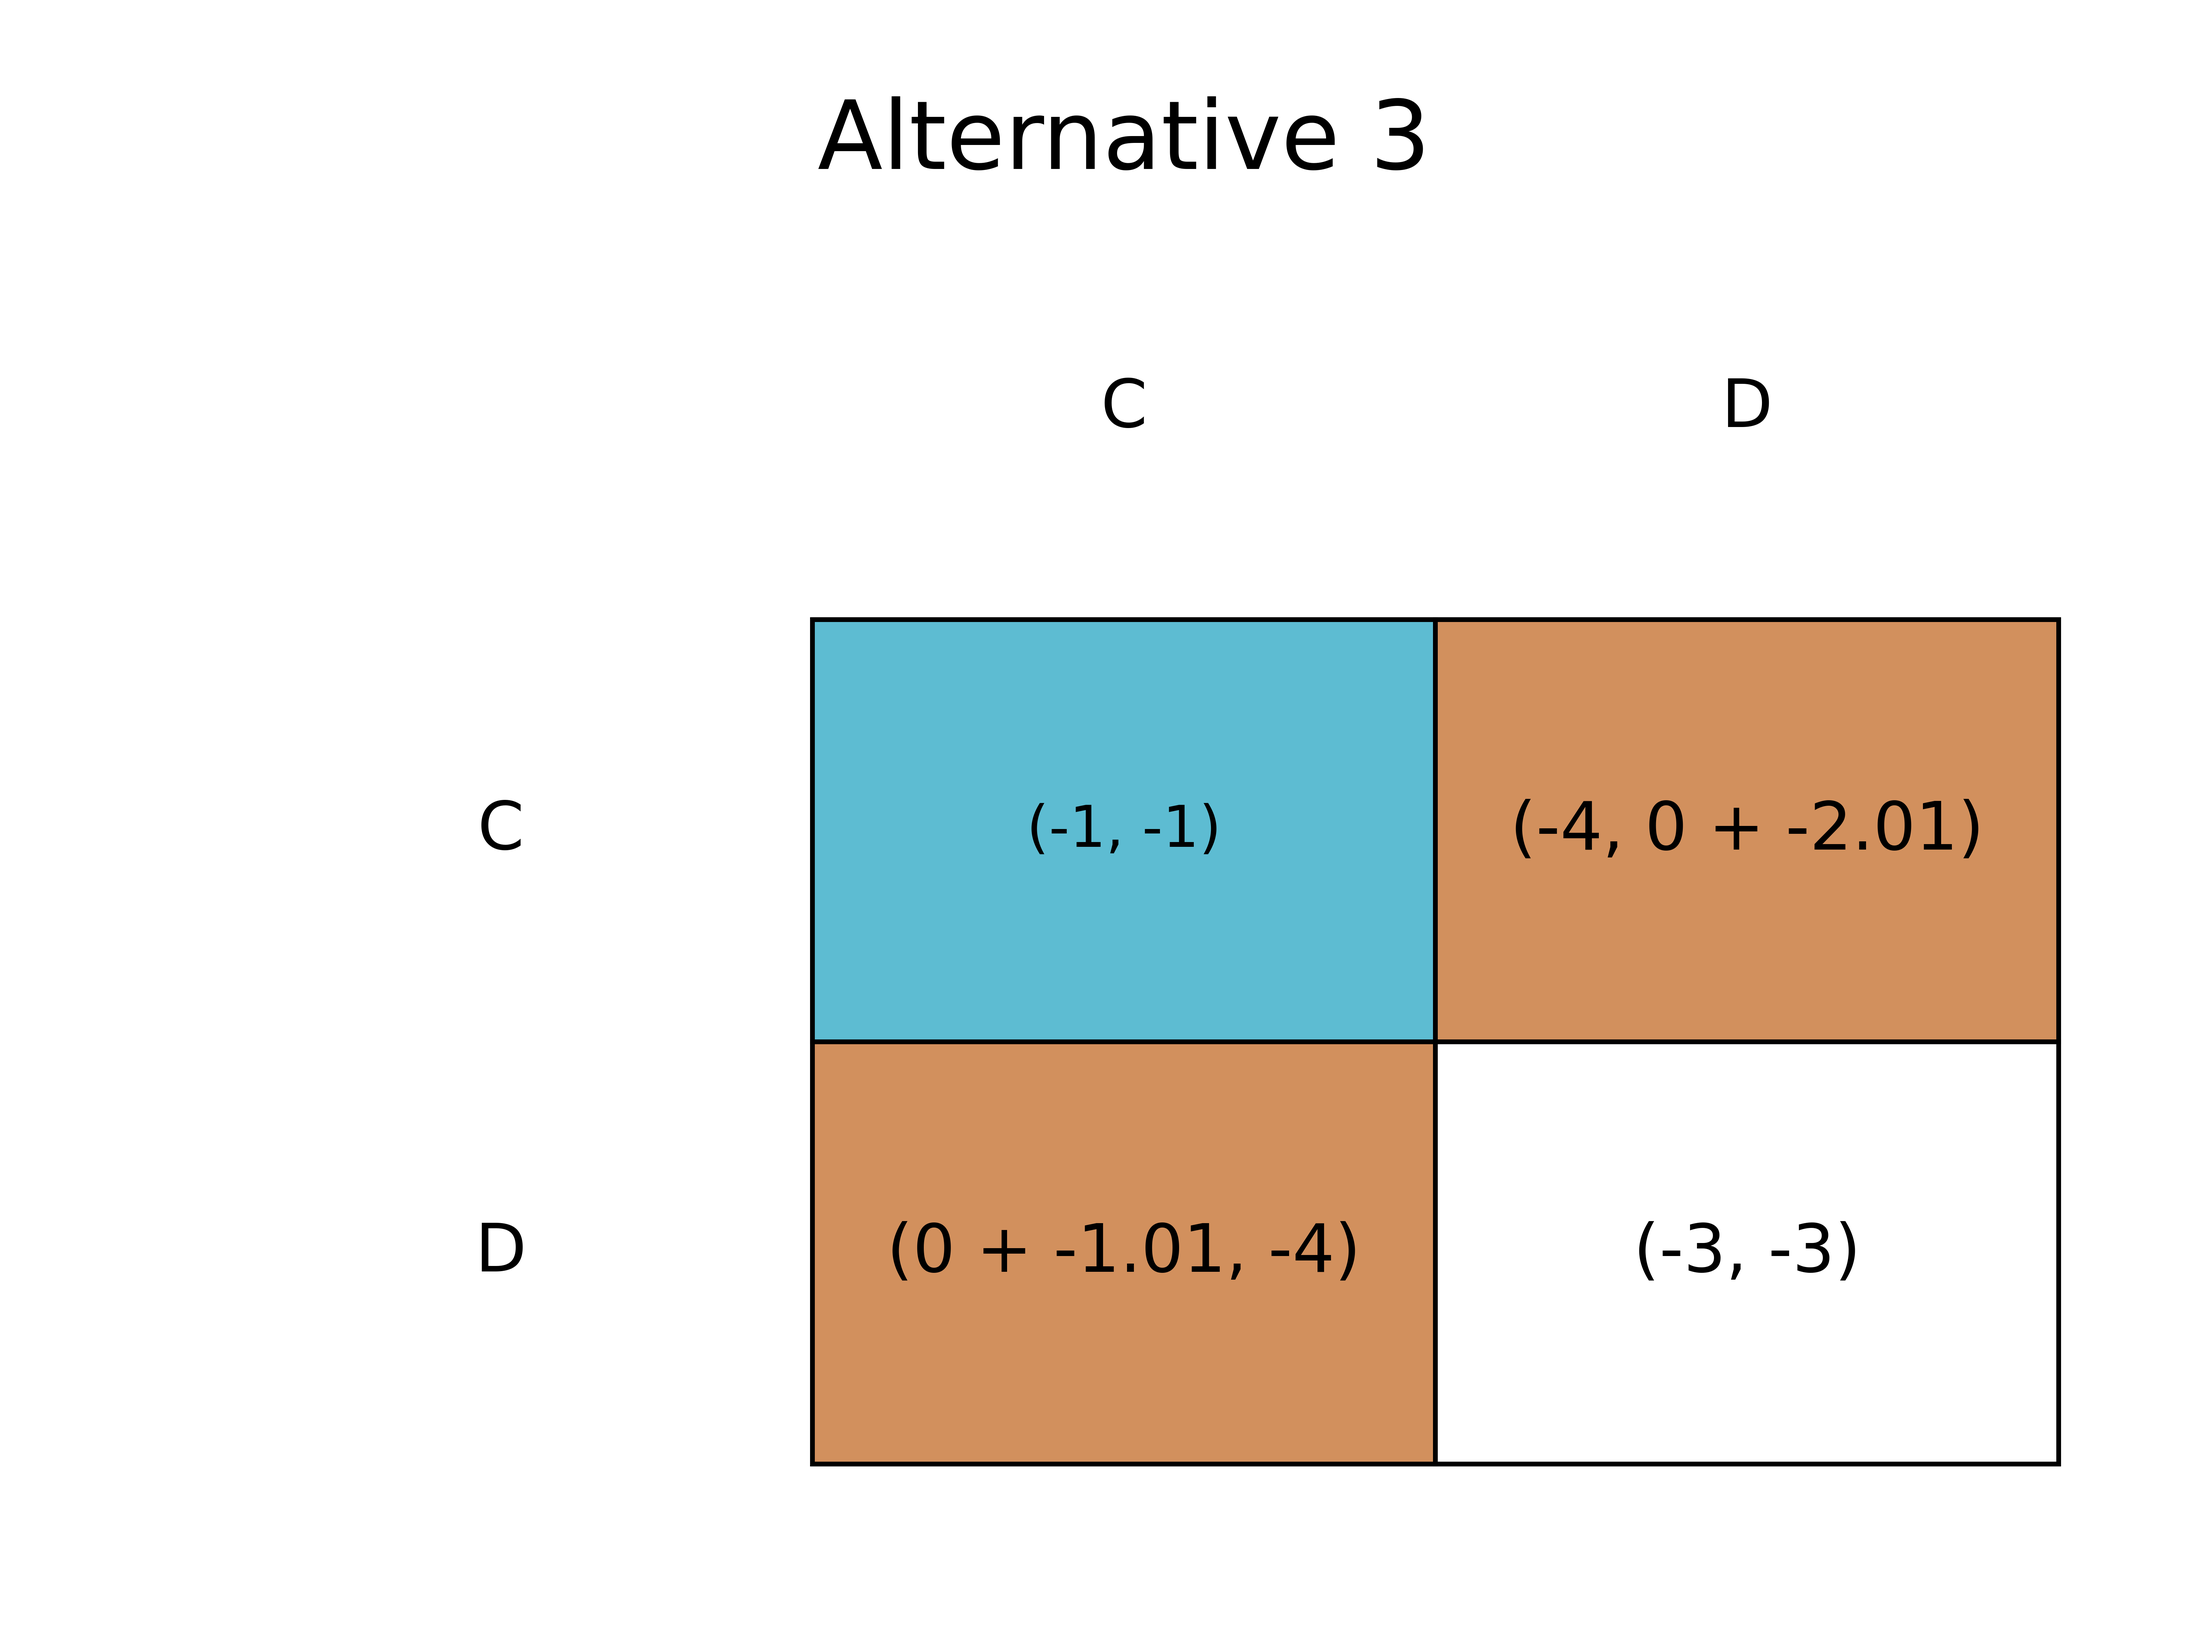
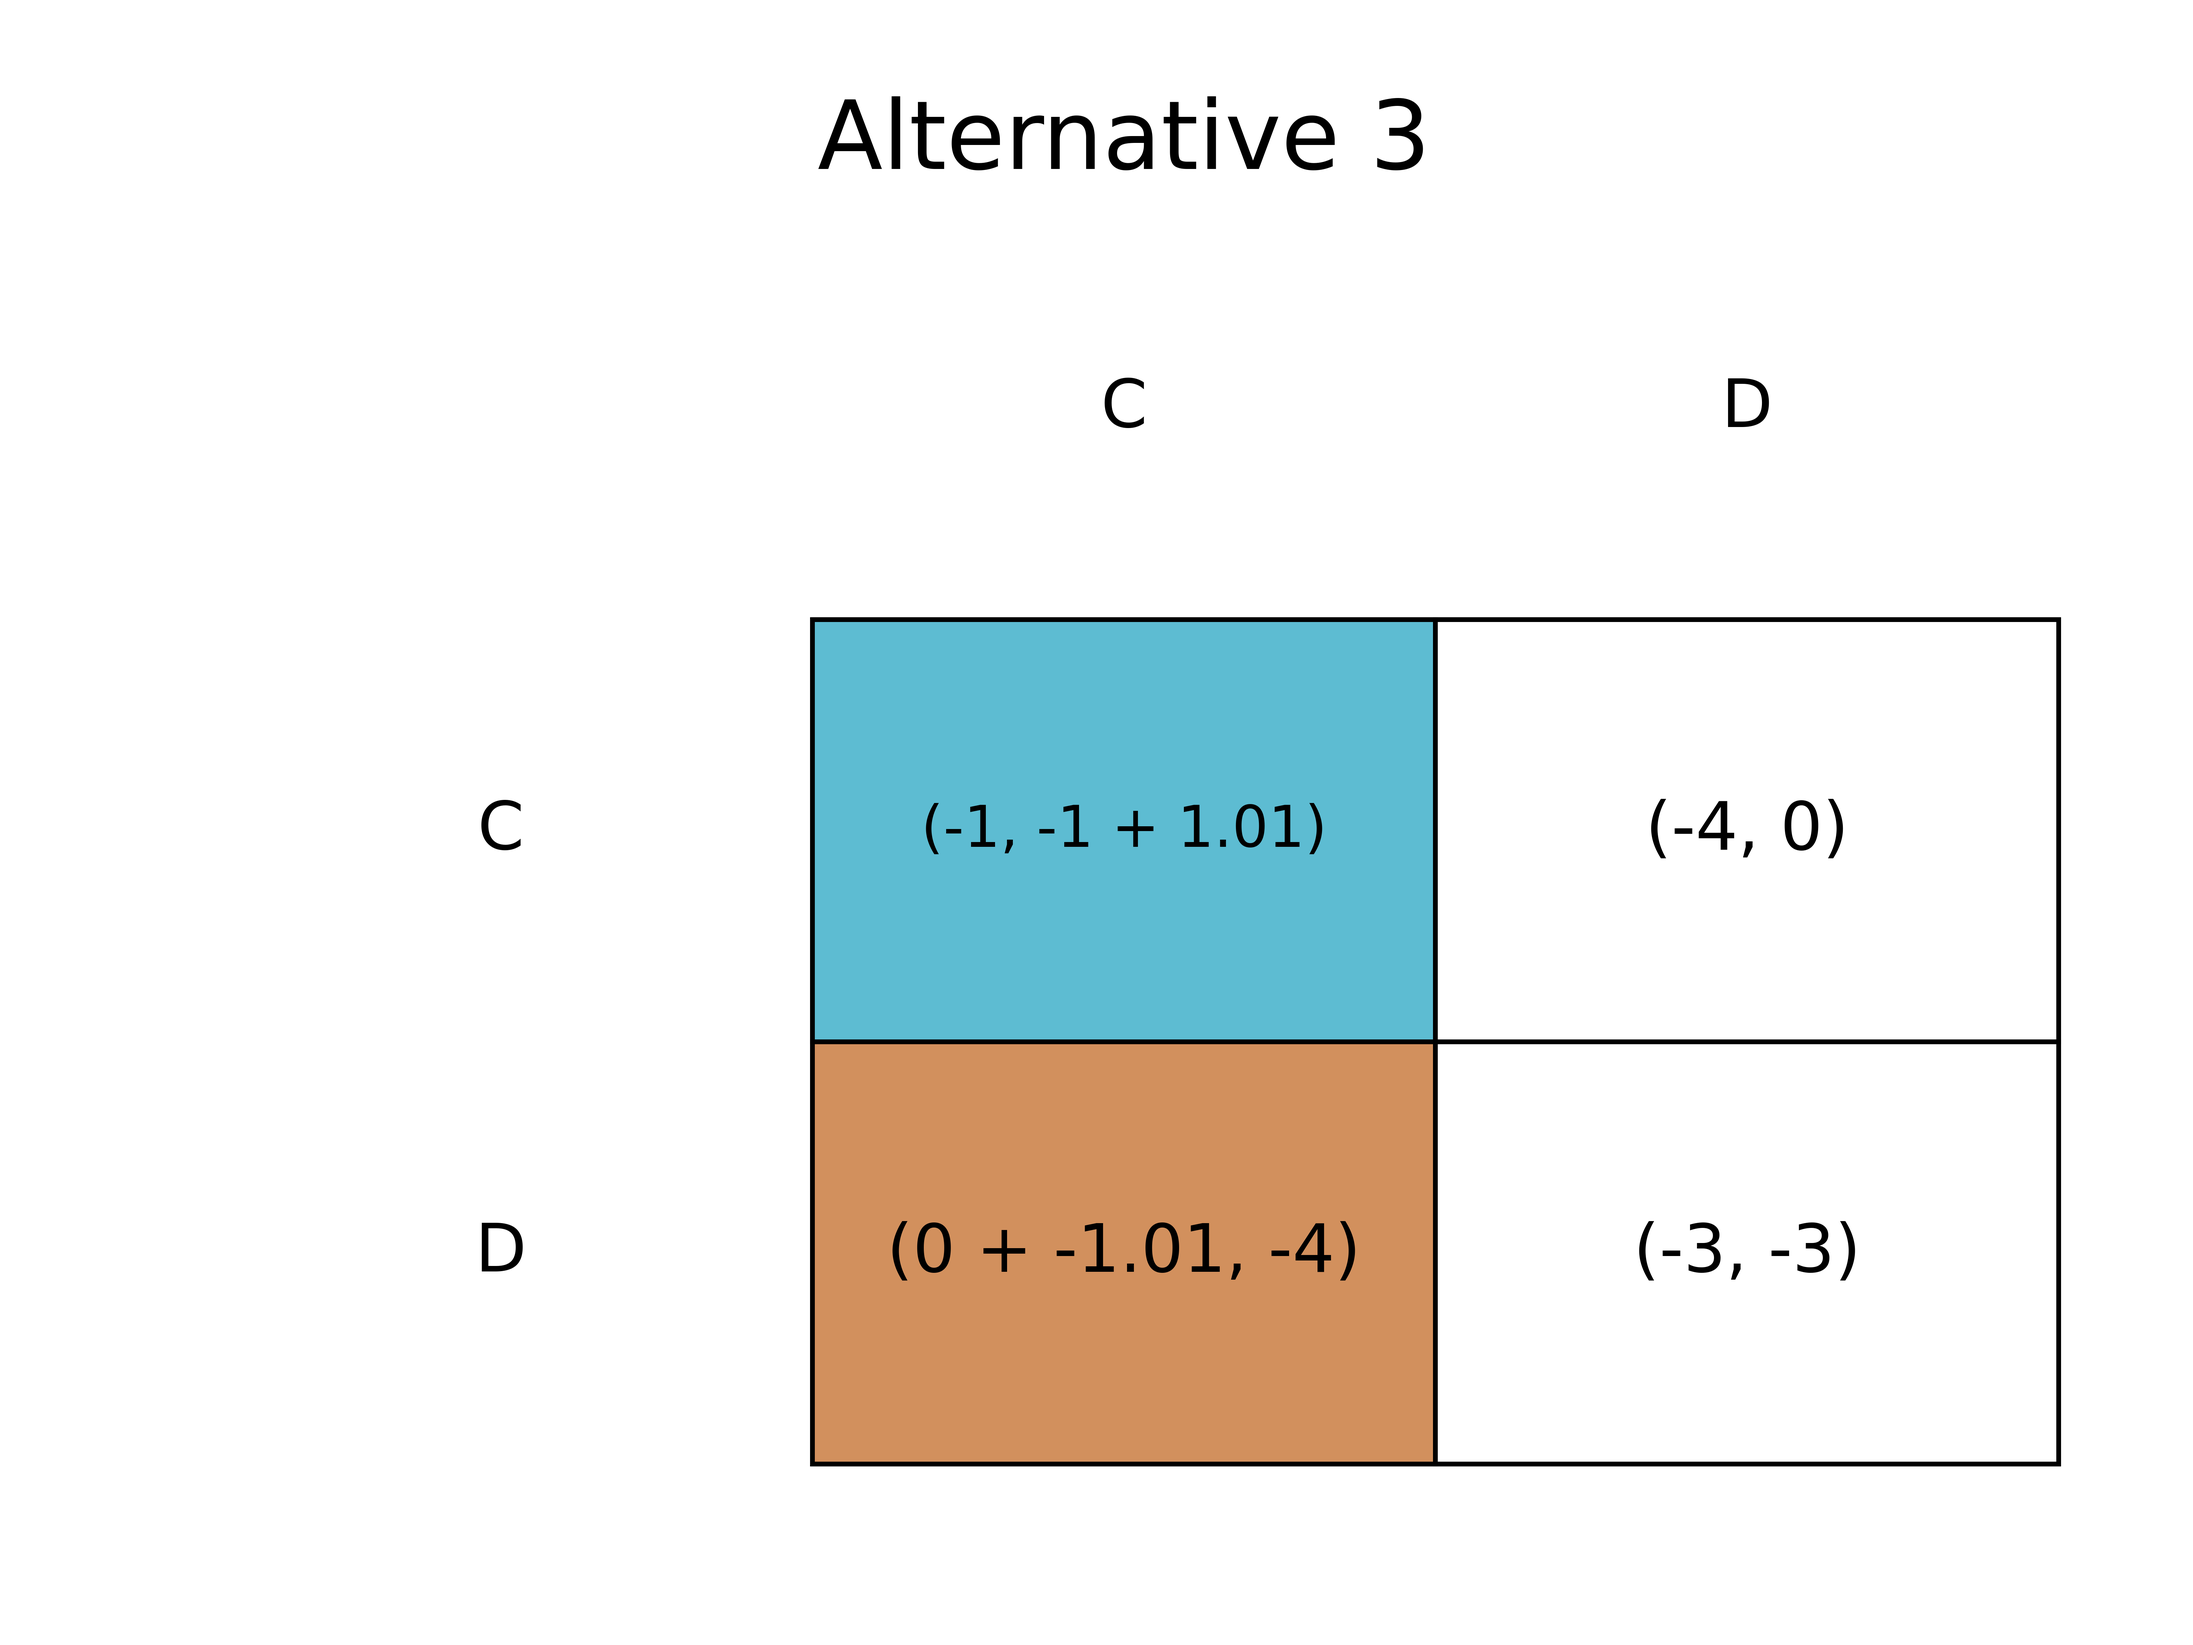
fixed a mistake: used to sum all y_a (not only for a \in NZ).

Changed region(s): [[0.6562, 0.375, 0.9375, 0.6562], [0.4688, 0.4688, 0.5938, 0.5312]]

diff --git a/Ali_codes/GAMETES/NashEqFinder.py b/Ali_codes/GAMETES/NashEqFinder.py
@@ -1090,7 +1090,7 @@ class NashEqFinder(object):
         # you can use the big-M approach too, i.e., replaced them with -M and 
         # M, respectively. 
 
-        
+
         # Adding new attributes to self
         self.current_variables = copy.deepcopy(variables_names)
         self.current_binary_variables = []
@@ -1238,8 +1238,15 @@ class NashEqFinder(object):
 
             expression = NZ_a - 1
 
-            for var in self.current_y_binary_variables_optlang:
-                expression -= var
+            for var_name, var_primal in self.current_primals.items():
+                # Didn't work without it, which is weird
+                # Check if the variable optimal is positive and if it is not
+                # a binary variable
+                if var_primal > 0 and var_name not in (self.current_binary_variables + self.current_y_binary_variables):
+                    # get the binary variable y_α
+                    y_a = model.variables[var_name + "_binary" + f"_ya_{iteration}"]
+                    expression -= y_a
+                # check
 
             c4 = optlang.Constraint(
                     expression,
